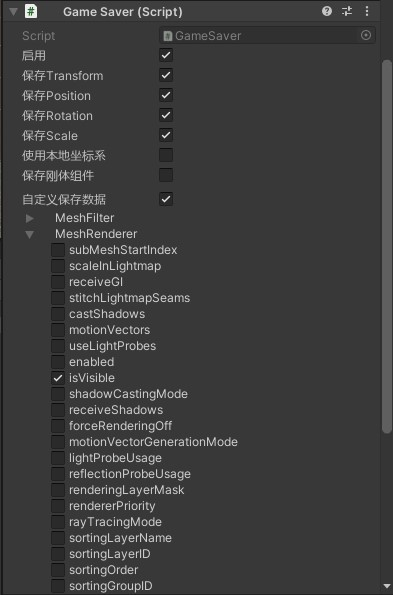
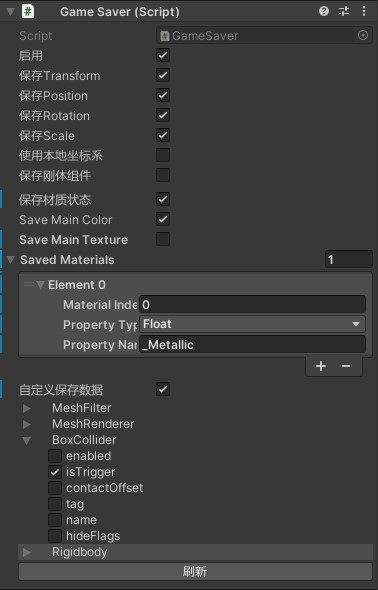
Now you can save material properties.

diff --git a/Utils.cs b/Utils.cs
@@ -15,15 +15,17 @@ namespace EasyGameSaver {
 		private static readonly BinaryFormatter Bf = new BinaryFormatter();
 		private static readonly MD5 Md5 = new MD5CryptoServiceProvider();
 
-		public static void Write(this BinaryWriter bw, Vector2 v2) {
-			bw.Write(v2.x);
-			bw.Write(v2.y);
-		}
-
 		public static void Write(this BinaryWriter bw, Vector3 v3) {
 			bw.Write(v3.x);
 			bw.Write(v3.y);
 			bw.Write(v3.z);
+		}
+
+		public static void Write(this BinaryWriter bw, Vector4 v4) {
+			bw.Write(v4.x);
+			bw.Write(v4.y);
+			bw.Write(v4.z);
+			bw.Write(v4.w);
 		}
 
 		public static void Write(this BinaryWriter bw, Quaternion q) {
@@ -33,11 +35,46 @@ namespace EasyGameSaver {
 			bw.Write(q.w);
 		}
 
+		public static void Write(this BinaryWriter bw, Matrix4x4 m) {
+			bw.Write(m.m00); bw.Write(m.m01); bw.Write(m.m02); bw.Write(m.m03);
+			bw.Write(m.m10); bw.Write(m.m11); bw.Write(m.m12); bw.Write(m.m13);
+			bw.Write(m.m20); bw.Write(m.m21); bw.Write(m.m22); bw.Write(m.m23);
+			bw.Write(m.m30); bw.Write(m.m31); bw.Write(m.m32); bw.Write(m.m33);
+		}
+
 		public static void Write(this BinaryWriter bw, Color c) {
 			bw.Write(c.r);
 			bw.Write(c.g);
 			bw.Write(c.b);
 			bw.Write(c.a);
+		}
+
+		public static void WriteArray(this BinaryWriter bw, float[] array) {
+			bw.Write(array.Length);
+			foreach (var v in array) {
+				bw.Write(v);
+			}
+		}
+
+		public static void WriteArray(this BinaryWriter bw, Color[] array) {
+			bw.Write(array.Length);
+			foreach (var v in array) {
+				bw.Write(v);
+			}
+		}
+		
+		public static void WriteArray(this BinaryWriter bw, Vector4[] array) {
+			bw.Write(array.Length);
+			foreach (var v in array) {
+				bw.Write(v);
+			}
+		}
+
+		public static void WriteArray(this BinaryWriter bw, Matrix4x4[] array) {
+			bw.Write(array.Length);
+			foreach (var v in array) {
+				bw.Write(v);
+			}
 		}
 
 		public static void Write(this BinaryWriter bw, object obj) {
@@ -51,13 +88,53 @@ namespace EasyGameSaver {
 
 		public static object ReadObject(this BinaryReader br) => Bf.Deserialize(br.BaseStream);
 
-		public static Vector2 ReadVector2(this BinaryReader br) => new Vector2(br.ReadSingle(), br.ReadSingle());
-
 		public static Vector3 ReadVector3(this BinaryReader br) => new Vector3(br.ReadSingle(), br.ReadSingle(), br.ReadSingle());
+
+		public static Vector4 ReadVector4(this BinaryReader br) => new Vector4(br.ReadSingle(), br.ReadSingle(), br.ReadSingle(), br.ReadSingle());
 
 		public static Quaternion ReadQuaternion(this BinaryReader br) => new Quaternion(br.ReadSingle(), br.ReadSingle(), br.ReadSingle(), br.ReadSingle());
 
+		public static Matrix4x4 ReadMatrix4x4(this BinaryReader br) =>
+			new Matrix4x4() {
+				m00 = br.ReadSingle(), m01 = br.ReadSingle(), m02 = br.ReadSingle(), m03 = br.ReadSingle(),
+				m10 = br.ReadSingle(), m11 = br.ReadSingle(), m12 = br.ReadSingle(), m13 = br.ReadSingle(),
+				m20 = br.ReadSingle(), m21 = br.ReadSingle(), m22 = br.ReadSingle(), m23 = br.ReadSingle(),
+				m30 = br.ReadSingle(), m31 = br.ReadSingle(), m32 = br.ReadSingle(), m33 = br.ReadSingle()
+			};
+
 		public static Color ReadColor(this BinaryReader br) => new Color(br.ReadSingle(), br.ReadSingle(), br.ReadSingle(), br.ReadSingle());
+
+		public static float[] ReadFloatArray(this BinaryReader br) {
+			var r = new float[br.ReadInt32()];
+			for (var i = 0; i < r.Length; i++) {
+				r[i] = br.ReadSingle();
+			}
+			return r;
+		}
+
+		public static Color[] ReadColorArray(this BinaryReader br) {
+			var r = new Color[br.ReadInt32()];
+			for (var i = 0; i < r.Length; i++) {
+				r[i] = br.ReadColor();
+			}
+			return r;
+		}
+
+		public static Vector4[] ReadVector4Array(this BinaryReader br) {
+			var r = new Vector4[br.ReadInt32()];
+			for (var i = 0; i < r.Length; i++) {
+				r[i] = br.ReadVector4();
+			}
+			return r;
+		}
+
+		public static Matrix4x4[] ReadMatrix4x4Array(this BinaryReader br) {
+			var r = new Matrix4x4[br.ReadInt32()];
+			for (var i = 0; i < r.Length; i++) {
+				r[i] = br.ReadMatrix4x4();
+			}
+			return r;
+		}
 
 		public static string GenerateHash(string name, IEnumerable<string> hashes) {
 			string hash;

diff --git a/SavedMaterial.cs b/SavedMaterial.cs
@@ -1,4 +1,6 @@
 using System;
+using System.IO;
+using UnityEngine;
 
 namespace EasyGameSaver {
 	[Serializable]
@@ -6,11 +8,89 @@ namespace EasyGameSaver {
 		public int materialIndex;
 		public MatPropertyType propertyType;
 		public string propertyName;
+
+		internal void Save(MeshRenderer mr, BinaryWriter bw) {
+			bw.Write(materialIndex);
+			bw.Write((int)propertyType);
+			bw.Write(propertyName);
+			var mat = mr.materials[materialIndex];
+			switch (propertyType) {
+			case MatPropertyType.Int:
+				bw.Write(mat.GetInt(propertyName));
+				break;
+			case MatPropertyType.Float:
+				bw.Write(mat.GetFloat(propertyName));
+				break;
+			case MatPropertyType.FloatArray:
+				bw.WriteArray(mat.GetFloatArray(propertyName));
+				break;
+			case MatPropertyType.Color:
+				bw.Write(mat.GetColor(propertyName));
+				break;
+			case MatPropertyType.ColorArray:
+				bw.WriteArray(mat.GetColorArray(propertyName));
+				break;
+			case MatPropertyType.Matrix:
+				bw.Write(mat.GetMatrix(propertyName));
+				break;
+			case MatPropertyType.MatrixArray:
+				bw.WriteArray(mat.GetMatrixArray(propertyName));
+				break;
+			case MatPropertyType.Vector:
+				bw.Write(mat.GetVector(propertyName));
+				break;
+			case MatPropertyType.VectorArray:
+				bw.WriteArray(mat.GetVectorArray(propertyName));
+				break;
+			}
+		}
+
+		internal static void Load(MeshRenderer mr, BinaryReader br) {
+			var materialIndex = br.ReadInt32();
+			var propertyType = (MatPropertyType)br.ReadInt32();
+			var propertyName = br.ReadString();
+			var mat = mr.materials[materialIndex];
+			switch (propertyType) {
+			case MatPropertyType.Int:
+				mat.SetInt(propertyName, br.ReadInt32());
+				break;
+			case MatPropertyType.Float:
+				mat.SetFloat(propertyName, br.ReadSingle());
+				break;
+			case MatPropertyType.FloatArray:
+				mat.SetFloatArray(propertyName, br.ReadFloatArray());
+				break;
+			case MatPropertyType.Color:
+				mat.SetColor(propertyName, br.ReadColor());
+				break;
+			case MatPropertyType.ColorArray:
+				mat.SetColorArray(propertyName, br.ReadColorArray());
+				break;
+			case MatPropertyType.Matrix:
+				mat.SetMatrix(propertyName, br.ReadMatrix4x4());
+				break;
+			case MatPropertyType.MatrixArray:
+				mat.SetMatrixArray(propertyName, br.ReadMatrix4x4Array());
+				break;
+			case MatPropertyType.Vector:
+				mat.SetVector(propertyName, br.ReadVector4());
+				break;
+			case MatPropertyType.VectorArray:
+				mat.SetVectorArray(propertyName, br.ReadVector4Array());
+				break;
+			}
+		}
 	}
 
 	internal enum MatPropertyType {
 		Int,
 		Float,
-		Color
+		FloatArray,
+		Color,
+		ColorArray,
+		Matrix,
+		MatrixArray,
+		Vector,
+		VectorArray,
 	}
 }

diff --git a/GameSaveMgr.cs b/GameSaveMgr.cs
@@ -163,8 +163,8 @@ namespace EasyGameSaver {
 						}
 					}
 
-					var rb = go.GetComponent<Rigidbody>();
 					if (br.ReadBoolean()) {
+						var rb = go.GetComponent<Rigidbody>();
 						if (rb == null) {
 							rb = go.AddComponent<Rigidbody>();
 						}
@@ -177,33 +177,33 @@ namespace EasyGameSaver {
 					}
 
 					if (br.ReadBoolean()) {
+						var mr = go.GetComponent<MeshRenderer>();
+						if (mr == null) {
+							mr = go.AddComponent<MeshRenderer>();
+						}
+						if (br.ReadBoolean()) {
+							mr.material.color = br.ReadColor();
+						}
+						if (br.ReadBoolean()) {
+							mr.material.mainTexture = (Texture)FindObjectFromInstanceID(br.ReadInt32());
+						}
+						var propertyCount = br.ReadInt32();
+						for (var j = 0; j < propertyCount; j++) {
+							try {
+								SavedMaterial.Load(mr, br);
+							} catch (Exception e) {
+								Debug.LogException(e);
+							}
+						}
+					}
+
+					if (br.ReadBoolean()) {
 						var memberCount = br.ReadInt32();
 						for (var j = 0; j < memberCount; j++) {
-							if (br.ReadBoolean()) {
-								var componentName = br.ReadString();
-								var memberName = br.ReadString();
-								var value = br.ReadObject();
-								var component = go.GetComponent(componentName);
-								if (component == null) {
-									Debug.LogWarning($"Cannot load GameObject: {go} Component: {componentName}. Component not found.");
-									continue;
-								}
-								var mi = component.GetType().GetMember(memberName, BindingFlags.Instance | BindingFlags.Public | BindingFlags.NonPublic);
-								if (mi.Length > 0) {
-									switch (mi[0]) {
-									case FieldInfo fi:
-										fi.SetValue(component, value);
-										break;
-									case PropertyInfo pi:
-										pi.SetValue(component, value);
-										break;
-									default:
-										Debug.LogWarning($"Cannot load GameObject: {go} Component: {componentName} Member: {memberName}. Not support.");
-										break;
-									}
-								} else {
-									Debug.LogWarning($"Cannot load GameObject: {go} Component: {componentName} Member: {memberName}. Member not found.");
-								}
+							try {
+								SavedMember.Load(go, br);
+							} catch (Exception e) {
+								Debug.LogException(e);
 							}
 						}
 					}

diff --git a/GameSaver.cs b/GameSaver.cs
@@ -224,6 +224,10 @@ namespace EasyGameSaver {
 				if (saveMainTexture) {
 					bw.Write(mr.material.mainTexture.GetInstanceID());
 				}
+				bw.Write(savedMaterials.Value.Length);
+				foreach (var savedMaterial in savedMaterials.Value) {
+					savedMaterial.Save(mr, bw);
+				}
 			}
 
 			bw.Write(customSaveData);
